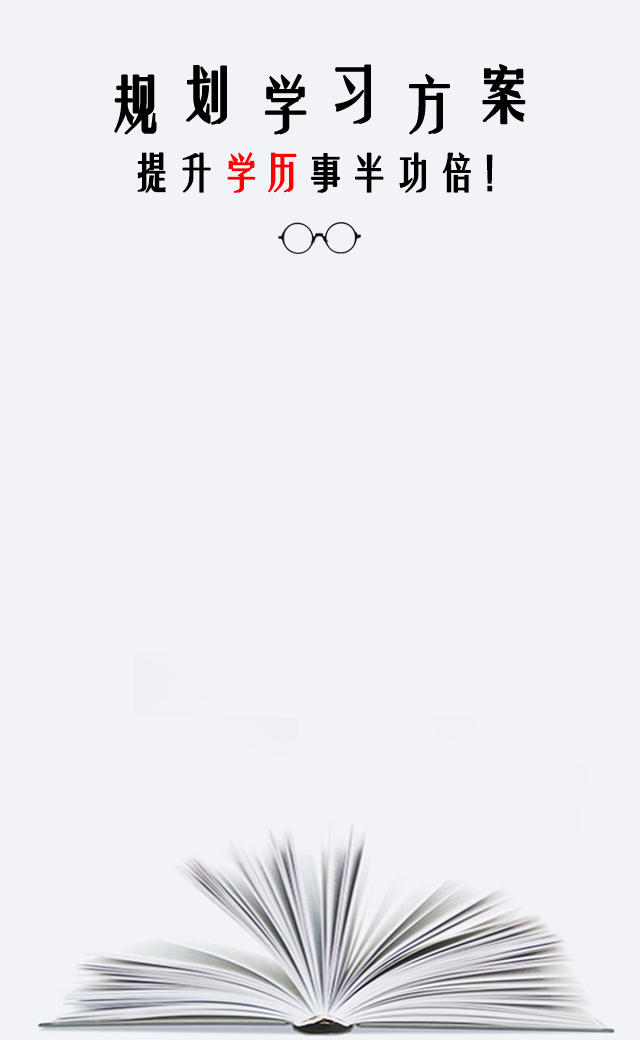
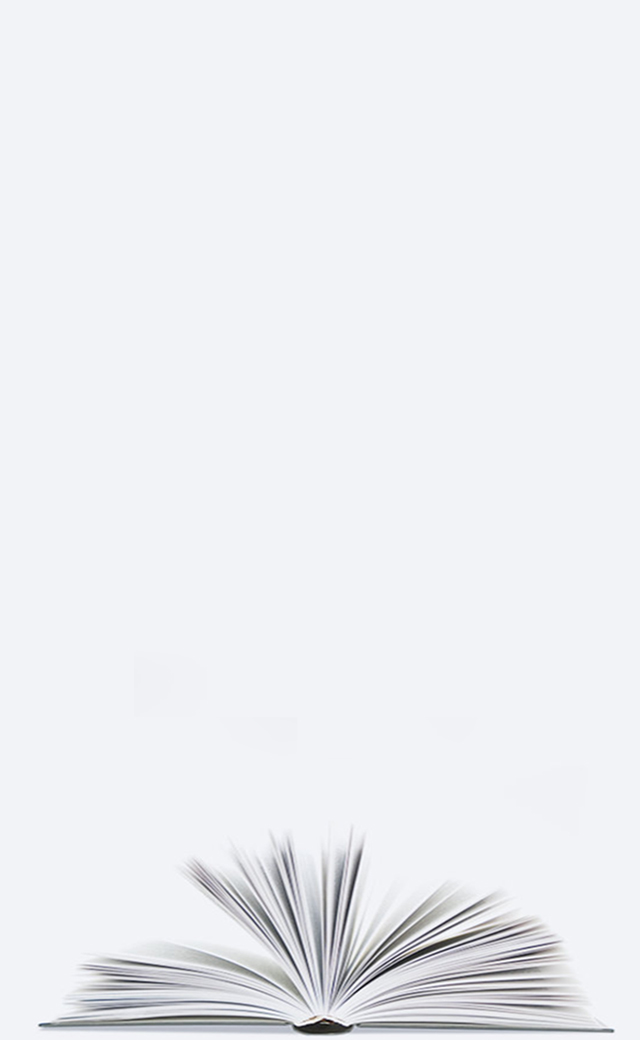
'update'

diff --git a/yd-s30/index.html b/yd-s30/index.html
@@ -19,6 +19,7 @@
    <div class="swiper-container">
     <div class="swiper-wrapper">
       <div class="swiper-slide page1">
+         <span class="page-slogan"></span>
          <h2 class="s-titl"><span>选择你想报考的学历？</span></h2>
          <h3 class="s-subt"><span>1</span>/3</h3>
          <div class="page-con clearfix">
@@ -31,8 +32,10 @@
               <p class="page-word"><span class="page-btn"></span>专科</p>
             </div>
          </div>
+         <p class="copyright">北京晟宏教育咨询有限公司</p>
       </div>
       <div class="swiper-slide page2">
+         <span class="page-slogan"></span>
          <h2 class="s-titl"><span>选择想提升学历的方式？</span></h2>
          <h3 class="s-subt"><span>2</span>/3</h3>
          <div class="page-con">
@@ -47,8 +50,10 @@
             </div>
          </div>
          <a href="javascript:;"  class="s2-btn">院校专业问题请咨询老师>></a>
+         <p class="copyright">北京晟宏教育咨询有限公司</p>
       </div>
       <div class="swiper-slide page3">
+         <span class="page-slogan"></span>
          <h2 class="s-titl s3-titl"><span>请接收为你制定的学历提升方案</span></h2>
          <h3 class="s-subt"><span>3</span>/3</h3>
          <div class="page-con">
@@ -57,12 +62,13 @@
            <p class="page-word page3-word"><span class="page3-icon3"></span>③院校专业选择方案</p>
          </div>
          <div class="iframe-wrap">
-           <iframe width="100%" height="100%" frameborder="0" scrolling="no" src="http://chat.talk99.cn/chat/form?c=10039888&conf=10773"></iframe>
+           <iframe width="100%" height="100%" frameborder="0" scrolling="no" src="http://chat.talk99.cn/chat/form?c=10039888&conf=10775"></iframe>
          </div>
+          <p class="copyright">北京晟宏教育咨询有限公司</p>
       </div>
     </div>
     <span class="page-arrow"></span>
   </div>
-<script type="text/javascript" src="http://lead.soperson.com/10039888/10067097.js"></script>
+<script type="text/javascript" src="http://lead.soperson.com/10039888/10085892.js"></script>
 </body>
 </html>

diff --git a/yd-s30/css/style.css b/yd-s30/css/style.css
@@ -30,14 +30,20 @@ body{
 .swiper-slide{
   background:url("../images/yd_01.jpg") no-repeat center;
   background-size: cover;
-  padding-top: 3.5rem;
+  padding-top: 0.5rem;
+}
+.page-slogan{
+  display: block;
+  height: 1.9rem;
+  background:url(../images/yd_00.png) no-repeat center;
+  background-size: contain;
 }
 .s-titl{
   width: 6.0rem;
   height: 1px;
   background:#ffb617;
   position: relative;
-  margin: 0 auto;
+  margin: 0.4rem auto;
 }
 .s-titl span{
   display: block;
@@ -53,7 +59,7 @@ body{
   top:-0.3rem;
 }
 .s3-titl span{
-      width: 5rem;
+    width: 5rem;
     margin-left: -2.5rem;
 }
 .s-subt{
@@ -71,7 +77,7 @@ body{
 }
 .page-con{
   padding: 0 0.9rem;
-  margin-top: 0.4rem;
+  margin-top: 0.1rem;
 }
 .page1-sel{
   width:1.61rem;
@@ -155,26 +161,26 @@ body{
   background-size: contain;
 }
 .iframe-wrap{
-  height: 120px;
+  height: 130px;
 }
 @keyframes tipmove{
-  0%{bottom:0.8rem;opacity:0}
-  50%{bottom:1.0rem;opacity:1}
-  100%{bottom:1.2rem;opacity:0}
+  0%{bottom:0.2rem;opacity:0}
+  50%{bottom:0.6rem;opacity:1}
+  100%{bottom:1.0rem;opacity:0}
 }
 @-webkit-keyframes tipmove{
-  0%{bottom:0.8rem;opacity:0}
-  50%{bottom:1.0rem;opacity:1}
-  100%{bottom:1.2rem;opacity:0}
+  0%{bottom:0.2rem;opacity:0}
+  50%{bottom:0.6rem;opacity:1}
+  100%{bottom:1.0rem;opacity:0}
 }
 .page-arrow{
     display: block;
-    width: 0.48rem;
-    height: 0.36rem;
+    width: 0.8rem;
+    height: 0.8rem;
     position: absolute;
     left: 50%;
-    margin-left: -0.24rem;
-    bottom: 0.8rem;
+    margin-left: -0.4rem;
+    bottom: 0.2rem;
     z-index: 9999;
     background: url(../images/yd_07.png) no-repeat center;
     background-size: contain;
@@ -183,4 +189,13 @@ body{
     -moz-animation: tipmove 1.5s infinite ease-in-out;
     -o-animation: tipmove 1.5s infinite ease-in-out;
     -ms-animation: tipmove 1.5s infinite ease-in-out;
+}
+.copyright{
+    font-size: 16px;
+    text-align: center;
+    color: #000;
+    padding: 10px 0;
+    position: absolute;
+    width: 100%;
+    bottom: 0.2rem;
 }

diff --git a/yd-s30/js/basic.js b/yd-s30/js/basic.js
@@ -1,10 +1,7 @@
 $(function(){
       var mySwiper = new Swiper ('.swiper-container', {
-            direction : 'vertical',
-            loop: true,
-            initialSlide :2
+            direction : 'vertical'
       });
-
       // page sel
       var $page_word = $(".page-word");
       $page_word.click(function(){
